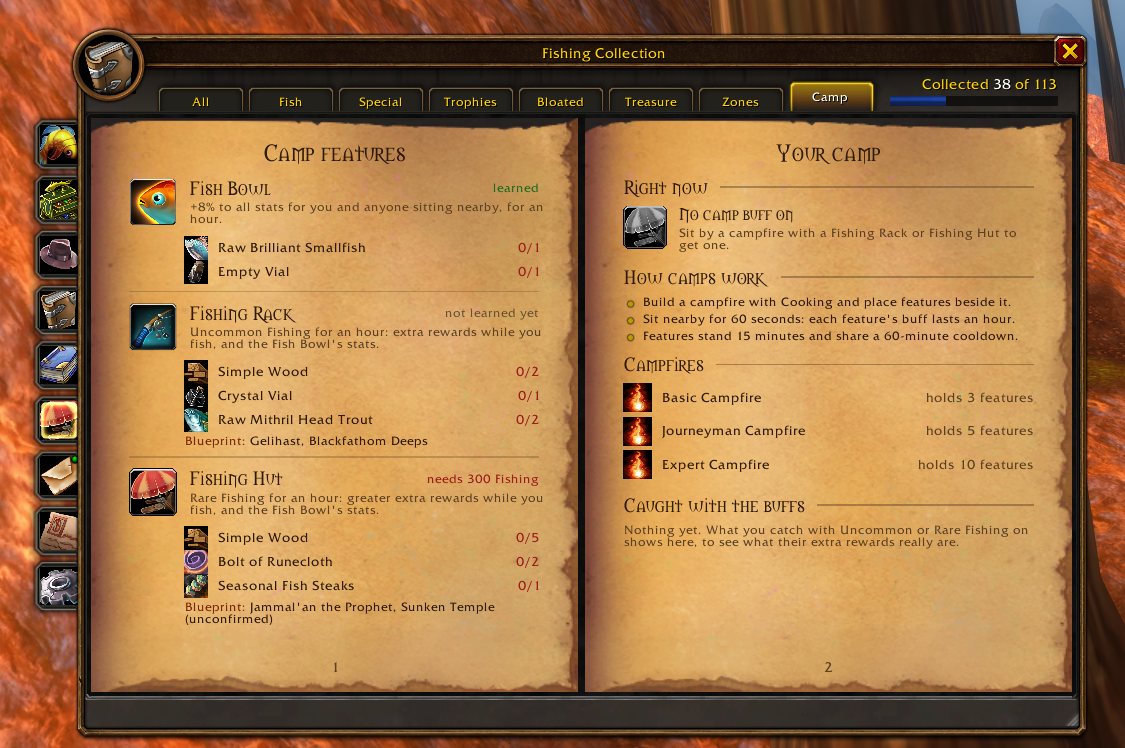
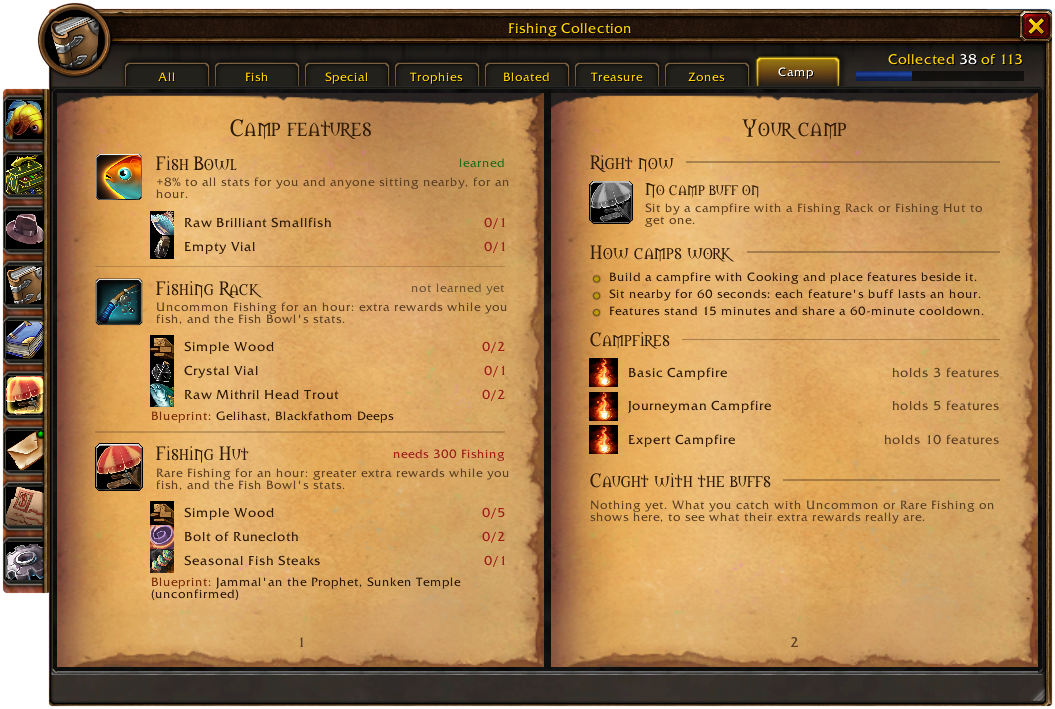
Crop the 1.0 screenshots to their windows
The new screenshots had the game world around them. Each is now cut out on
transparency like the Session and mini bar shots: the window, its portrait
and the side tabs. The README's links ask for them afresh, so cached copies
of the uncropped ones aren't shown.

diff --git a/README.md b/README.md
@@ -50,7 +50,7 @@ And around it:
 ![Mini mode: your Fishing skill, whether fish get away in this zone, your catches and fish per hour, and your latest catch, with Done fishing beside the close button](https://raw.githubusercontent.com/rynmon/OneCast/main/assets/screenshots/mini.png?v=1.0.0)
 
 ### 🧰 The tackle box
-![The tackle box: choose a lure (or none), apply it with the cast key, and your fish per hour with and without one](https://raw.githubusercontent.com/rynmon/OneCast/main/assets/screenshots/tackle-box.png?v=1.0.0)
+![The tackle box: choose a lure (or none), apply it with the cast key, and your fish per hour with and without one](https://raw.githubusercontent.com/rynmon/OneCast/main/assets/screenshots/tackle-box.png?v=1.0.0b)
 
 - A small button appears while your pole is on, showing your lure, how many you have and the time left. It pulses when the lure is about to run out.
 - **You choose the lure** for each character, so a rare one is only spent if you pick it. Or pick **Best I can use** if you don't mind spending them.
@@ -65,11 +65,11 @@ And around it:
 - Pick its colour: arcane, gold, ice blue, your class colour and more.
 
 ### 📖 The fishing collection
-![The collection book: every fish, with the ones you've caught in colour and how many](https://raw.githubusercontent.com/rynmon/OneCast/main/assets/screenshots/collection.png?v=1.0.0)
+![The collection book: every fish, with the ones you've caught in colour and how many](https://raw.githubusercontent.com/rynmon/OneCast/main/assets/screenshots/collection.png?v=1.0.0b)
 
-![The Treasure tab: chests, crates, trunks, the Rumsey Rums and The 1 Ring, with the ones you've fished up in colour](https://raw.githubusercontent.com/rynmon/OneCast/main/assets/screenshots/treasure.png?v=1.0.0)
+![The Treasure tab: chests, crates, trunks, the Rumsey Rums and The 1 Ring, with the ones you've fished up in colour](https://raw.githubusercontent.com/rynmon/OneCast/main/assets/screenshots/treasure.png?v=1.0.0b)
 
-![A fish's page: what it is and how rare, your catches on each character, by day and at night, every zone it's caught in with your catches and the skill each needs, a map, and the recipes it's used in with their sellers](https://raw.githubusercontent.com/rynmon/OneCast/main/assets/screenshots/fish-page.png?v=1.0.0)
+![A fish's page: what it is and how rare, your catches on each character, by day and at night, every zone it's caught in with your catches and the skill each needs, a map, and the recipes it's used in with their sellers](https://raw.githubusercontent.com/rynmon/OneCast/main/assets/screenshots/fish-page.png?v=1.0.0b)
 
 - **Every fish in WoW Forever** and the **treasure** you can fish up: 113 catches across fish, special catches, trophy fish, bloated fish and treasure like **The 1 Ring** and the **Rumsey Rums**. Shared across all your characters, including what you caught before installing.
 - **How rare is it?** Every catch has a rarity, from Common to Very rare, with its odds (The 1 Ring is about 1 in 2,000 catches), zone by zone.
@@ -82,7 +82,7 @@ And around it:
 - **Remembered pools:** cast at a pool and the spot is marked on the book's zone maps.
 
 ### 🗺 Where to fish next
-![The Zones tab: a ladder of Fishing levels with yours marked on it, each level's zones and how many of their fish you've caught, and what's still to catch](https://raw.githubusercontent.com/rynmon/OneCast/main/assets/screenshots/zones.png?v=1.0.0)
+![The Zones tab: a ladder of Fishing levels with yours marked on it, each level's zones and how many of their fish you've caught, and what's still to catch](https://raw.githubusercontent.com/rynmon/OneCast/main/assets/screenshots/zones.png?v=1.0.0b)
 
 - **Zones tab:** a ladder of every zone by the Fishing it needs, with your skill marked on it and how many of each rung's fish you've caught. Click a zone to see its fish.
 - **Is this zone right for you?** A skill bar shows your Fishing, lure bonus included, and whether fish will get away here. Short of a zone's level? OneCast names a lure in your bags that would cover it.
@@ -99,25 +99,25 @@ And around it:
 - Fish on your wanted list get their own alert.
 
 ### 👒 The fishing wardrobe
-![The fishing wardrobe: each slot's fishing item around your character wearing the outfit, the pole, and the Fishing it adds](https://raw.githubusercontent.com/rynmon/OneCast/main/assets/screenshots/wardrobe.png?v=1.0.0)
+![The fishing wardrobe: each slot's fishing item around your character wearing the outfit, the pole, and the Fishing it adds](https://raw.githubusercontent.com/rynmon/OneCast/main/assets/screenshots/wardrobe.png?v=1.0.0b)
 
 - Choose what you fish in, slot by slot, on a page laid out like the character sheet, with your character wearing it.
 - Each slot takes the best Fishing bonus in your bags, an item you pick, or what you're wearing. Pick the pole too.
 - See your Fishing with the outfit against what you wear now.
 - It goes on with the pole and comes off with your weapons.
 
-![The Gear guide: every fishing pole and piece of fishing gear as cards, with its Fishing bonus, whether you have it and where it comes from, and the best you have for each slot](https://raw.githubusercontent.com/rynmon/OneCast/main/assets/screenshots/gear-guide.png?v=1.0.0)
+![The Gear guide: every fishing pole and piece of fishing gear as cards, with its Fishing bonus, whether you have it and where it comes from, and the best you have for each slot](https://raw.githubusercontent.com/rynmon/OneCast/main/assets/screenshots/gear-guide.png?v=1.0.0b)
 
 - **Gear guide:** every fishing pole and piece of fishing gear, with its Fishing bonus, whether you have it, and where it comes from. Click a card for a **waypoint** to where you get it: the quest giver, the rare that drops it, Booty Bay's prize vendors, or the nearest fishing vendor on your side. Right-click for its Wowhead page and its source's. Gear only the other faction can get is left out.
 
 ### 🧭 Fisherman's journey
-![Fisherman's journey: Apprentice to Artisan, each with how to learn it, where to fish and what it needs, Show on map for Expert's book and Nat Pagle, and your progress to your cap](https://raw.githubusercontent.com/rynmon/OneCast/main/assets/screenshots/journey.png?v=1.0.0)
+![Fisherman's journey: Apprentice to Artisan, each with how to learn it, where to fish and what it needs, Show on map for Expert's book and Nat Pagle, and your progress to your cap](https://raw.githubusercontent.com/rynmon/OneCast/main/assets/screenshots/journey.png?v=1.0.0b)
 
 - The four Fishing ranks, Apprentice to Artisan: where you stand and how many catches to your cap, and for each rank how and where to learn it and where to fish at that stage.
 - **Show on map** sets a waypoint to Expert's book in Booty Bay and to Nat Pagle for the Artisan quest. Nat's four fish tick off as you catch them.
 
 ### 🏕 Fishing at camp
-![The Camp tab: the Fish Bowl, Fishing Rack and Fishing Hut with their reagents and where the blueprints drop, your camp buff right now, and the campfires](https://raw.githubusercontent.com/rynmon/OneCast/main/assets/screenshots/camp.png?v=1.0.0)
+![The Camp tab: the Fish Bowl, Fishing Rack and Fishing Hut with their reagents and where the blueprints drop, your camp buff right now, and the campfires](https://raw.githubusercontent.com/rynmon/OneCast/main/assets/screenshots/camp.png?v=1.0.0b)
 
 - A **Camp tab** for Forever's fishing crafts: the **Fish Bowl**, **Fishing Rack** and **Fishing Hut**, with what each does, whether you've learned it, and your reagents against what it takes.
 - **Where the blueprints drop**, with a click for a waypoint to the dungeon's entrance.
@@ -139,7 +139,7 @@ And around it:
 - Turn off the **ticks** on what you've caught, or **reduce motion** to stop OneCast's animations.
 
 ### ⚙ Fits right in
-![The Options tab: categories on the left, their settings in the middle, and the one you hover explained on the right](https://raw.githubusercontent.com/rynmon/OneCast/main/assets/screenshots/options.png?v=1.0.0)
+![The Options tab: categories on the left, their settings in the middle, and the one you hover explained on the right](https://raw.githubusercontent.com/rynmon/OneCast/main/assets/screenshots/options.png?v=1.0.0b)
 
 - Built from WoW Forever's own art and UI style, so it looks like part of the game.
 - **One window for everything:** stats, tackle box, wardrobe, collection, Camp, Fisherman's journey, data report, What's new and options, with side tabs to move between them. It opens wherever you last dragged it, on the page you had open.
@@ -187,7 +187,7 @@ And around it:
 - Auction values need Auctionator, TradeSkillMaster or Naowh Forever installed.
 
 ## Help fill in Forever's numbers
-![The data report: what you've found that OneCast doesn't know yet, and the report ready to copy and share](https://raw.githubusercontent.com/rynmon/OneCast/main/assets/screenshots/report.png?v=1.0.0)
+![The data report: what you've found that OneCast doesn't know yet, and the report ready to copy and share](https://raw.githubusercontent.com/rynmon/OneCast/main/assets/screenshots/report.png?v=1.0.0b)
 
 Nobody has published Forever's real zone fishing levels, or where its rarer fish are found. Type `/onecast report`, click **Select report**, press Ctrl+C and paste it in a comment here or in a [data report on GitHub](https://github.com/rynmon/OneCast/issues/new?template=data-report.yml). The report window has both links ready to copy. When your fishing turns up something OneCast doesn't know, the Data report tab shows a badge until you share. The report lists your catches and getaways with the skill each happened at, any fish the collection is missing, and what the trunks you opened held, and nothing about who you are. With enough reports, OneCast can swap Classic's numbers for Forever's own.
 
